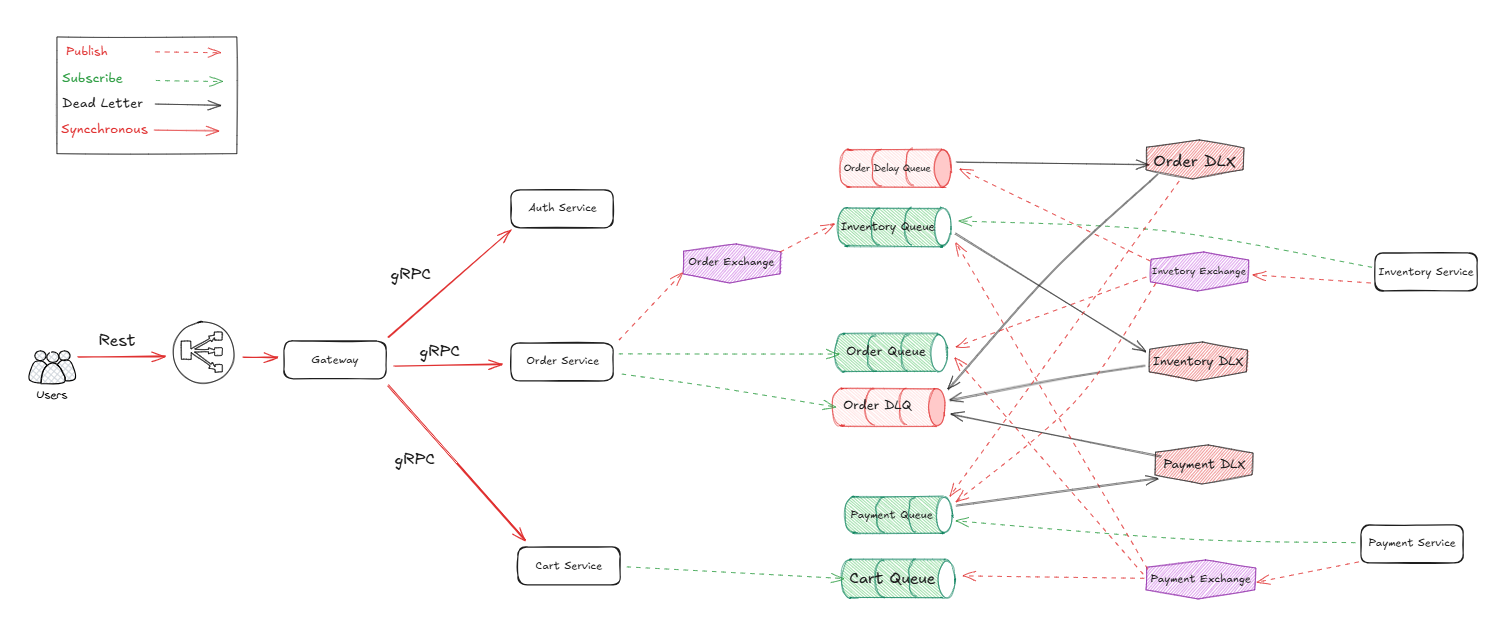
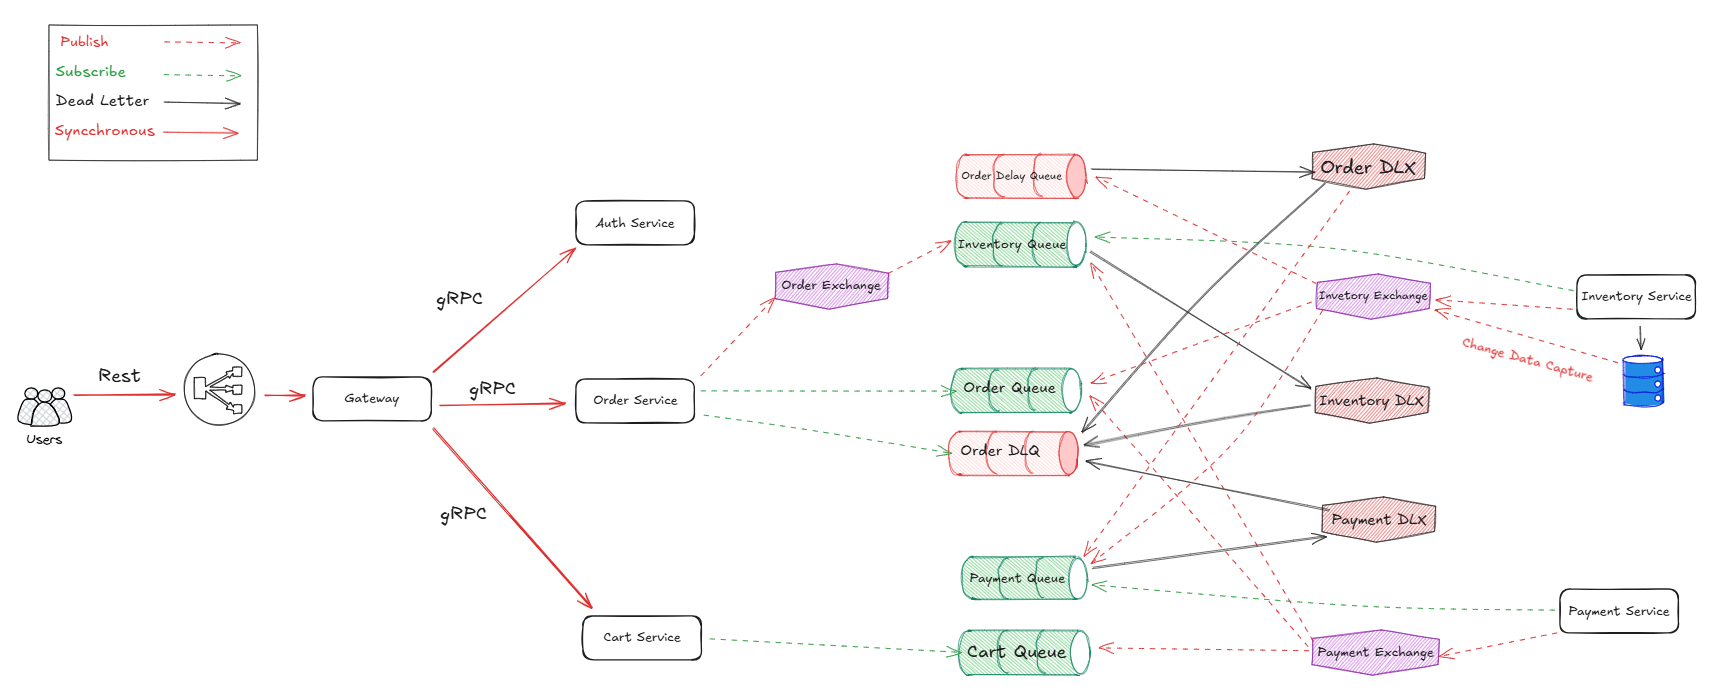
feat: Add change data capture

diff --git a/services/order/v1/internal/app/app.go b/services/order/v1/internal/app/app.go
@@ -10,6 +10,7 @@ import (
 	"package/rabbitmq"
 	"time"
 
+	"github.com/goforj/godump"
 	"github.com/rabbitmq/amqp091-go"
 	"go.opentelemetry.io/otel"
 )
@@ -44,28 +45,10 @@ func (c *appServer) Worker(ctx context.Context, messages <-chan amqp091.Delivery
 			"inventory.failed":   {},
 		}
 
-		log.Println("delivery.Type: ", delivery.RoutingKey)
-		switch delivery.RoutingKey {
-		// case "payment.successed":
-		// 	c.updateStatus(ctx, delivery, delivery.RoutingKey)
-
-		case "inventory.created":
-			c.inventoryCreated(ctx, delivery)
-
-		case "inventory.updated":
-			c.inventoryUpdated(ctx, delivery)
-
-		// case "inventory.reserved.buynow":
-		// 	c.updateStatus(ctx, delivery, delivery.RoutingKey)
-
-		// case "inventory.reserved.cart":
-		// 	c.updateStatus(ctx, delivery, delivery.RoutingKey)
-
-		// case "payment.failed":
-		// 	c.updateStatus(ctx, delivery, delivery.RoutingKey)
-
-		// case "inventory.failed":
-		// 	c.updateStatus(ctx, delivery, delivery.RoutingKey)
+		log.Println("message.Type: ", message.RoutingKey)
+		switch message.RoutingKey {
+		case "inventory.event":
+			c.inventoryEvent(ctx, message)
 
 		case "order.timeout":
 			c.checkAndUpdateStatus(ctx, delivery, delivery.RoutingKey)
@@ -77,29 +60,6 @@ func (c *appServer) Worker(ctx context.Context, messages <-chan amqp091.Delivery
 			}
 		}
 	}
-}
-
-func (c *appServer) inventoryCreated(ctx context.Context, delivery amqp091.Delivery) {
-	var payload constant.Product
-	// Extract trace context
-	ctx_ := otel.GetTextMapPropagator().Extract(
-		ctx,
-		rabbitmq.AMQPHeaderCarrier(delivery.Headers),
-	)
-
-	err := json.Unmarshal(delivery.Body, &payload)
-	if err != nil {
-		slog.Error("failed to Unmarshal", err)
-	}
-	// tracer := otel.Tracer("order-service")
-	// ctx2, span := tracer.Start(ctx_, "Create_Product")
-	if err = c.orderService.CreateProduct(ctx_, &payload); err != nil {
-		slog.Error("failed to created order_products", err)
-		c.rejectDelivery(delivery)
-		return
-	}
-	// span.End()
-	c.ackDelivery(delivery)
 }
 
 func (c *appServer) updateStatus(ctx context.Context, delivery amqp091.Delivery, routingKey string) {
@@ -169,25 +129,45 @@ func (c *appServer) updateStatus(ctx context.Context, delivery amqp091.Delivery,
 	c.ackDelivery(delivery)
 }
 
-func (c *appServer) inventoryUpdated(ctx context.Context, delivery amqp091.Delivery) {
-	var payload constant.Product
-	ctx_ := otel.GetTextMapPropagator().Extract(
-		ctx,
-		rabbitmq.AMQPHeaderCarrier(delivery.Headers),
-	)
+// func (c *appServer) inventoryUpdated(ctx context.Context, delivery amqp091.Delivery) {
+// 	var payload constant.Product
+// 	ctx_ := otel.GetTextMapPropagator().Extract(
+// 		ctx,
+// 		rabbitmq.AMQPHeaderCarrier(delivery.Headers),
+// 	)
 
-	err := json.Unmarshal(delivery.Body, &payload)
+// 	err := json.Unmarshal(delivery.Body, &payload)
+// 	if err != nil {
+// 		slog.Error("failed to Unmarshal", err)
+// 	}
+
+// 	if err := c.orderService.UpdateProduct(ctx_, &payload); err != nil {
+// 		slog.Error("failed to update order_products", err)
+// 		c.rejectDelivery(delivery)
+// 		return
+// 	}
+
+// 	c.ackDelivery(delivery)
+// }
+
+func (c *appServer) inventoryEvent(ctx context.Context, message amqp091.Delivery) {
+	var payload map[string]constant.OrderProduct
+	err := json.Unmarshal(message.Body, &payload)
 	if err != nil {
 		slog.Error("failed to Unmarshal", err)
-	}
-
-	if err := c.orderService.UpdateProduct(ctx_, &payload); err != nil {
-		slog.Error("failed to update order_products", err)
-		c.rejectDelivery(delivery)
+		c.rejectDelivery(message)
 		return
 	}
 
-	c.ackDelivery(delivery)
+	data := payload["payload"]
+	godump.Dump(data)
+	if err := c.orderService.ProductUpdate(ctx, &data); err != nil {
+		slog.Error("failed to update order_product", err)
+		c.rejectDelivery(message)
+		return
+	}
+
+	c.ackDelivery(message)
 }
 
 func (c *appServer) checkAndUpdateStatus(ctx context.Context, delivery amqp091.Delivery, routingKey string) {

diff --git a/services/order/v1/internal/service/orderService.go b/services/order/v1/internal/service/orderService.go
@@ -31,8 +31,7 @@ type orderService struct {
 }
 
 type OrderService interface {
-	CreateProduct(context.Context, *constant.Product) error
-	UpdateProduct(context.Context, *constant.Product) error
+	ProductUpdate(context.Context, *constant.OrderProduct) error
 	UpdateStatus(context.Context, int, map[string]interface{}) error
 	CheckAndUpdateStatus(context.Context, int) error
 
@@ -183,27 +182,33 @@ func (s *orderServer) ListOrder(ctx context.Context, in *order.ListOrderRequest)
 	return result, nil
 }
 
-func (o *orderService) CreateProduct(ctx context.Context, product *constant.Product) error {
-	// tracer := otel.Tracer("order-service")
-	createCtx, createSpan := o.tracer.Start(ctx, "CreatedProduct")
-	defer createSpan.End()
-	if err := o.orderRepo.CreateProduct(createCtx, product); err != nil {
-		log.Printf("%+v", errors.WithStack(err))
-		return err
-	}
-	return nil
-}
-
-func (o *orderService) UpdateProduct(ctx context.Context, product *constant.Product) error {
-	updateCtx, updateSpan := o.tracer.Start(ctx, "UpdateProduct")
-	defer updateSpan.End()
-
-	product.UpdatedAt = time.Now().UTC()
-	if err := o.orderRepo.UpdateProduct(updateCtx, product); err != nil {
-		log.Printf("%+v", errors.WithStack(err))
-		return err
+func (o *orderService) ProductUpdate(ctx context.Context, orderProduct *constant.OrderProduct) error {
+	product := &constant.Product{
+		StoreID:     &orderProduct.StoreID,
+		ProductID:   &orderProduct.ProductID,
+		ProductName: &orderProduct.ProductName,
+		Price:       &orderProduct.Price,
+		CreatedAt:   time.Now().UTC(),
+		UpdatedAt:   time.Now().UTC(),
 	}
 
+	switch orderProduct.Operation {
+	case "c":
+		if err := o.orderRepo.CreateProduct(ctx, product); err != nil {
+			log.Printf("%+v", errors.WithStack(err))
+			return err
+		}
+	case "u":
+		if err := o.orderRepo.UpdateProduct(ctx, product); err != nil {
+			log.Printf("%+v", errors.WithStack(err))
+			return err
+		}
+	case "d":
+		if err := o.orderRepo.DeleteProduct(ctx, *product.ProductID); err != nil {
+			log.Printf("%+v", errors.WithStack(err))
+			return err
+		}
+	}
 	return nil
 }
 

diff --git a/services/order/v1/internal/repository/orderRepository.go b/services/order/v1/internal/repository/orderRepository.go
@@ -75,11 +75,18 @@ func (repo *orderRepository) UpdateProduct(ctx context.Context, product *constan
 		updateData["price"] = product.Price
 	}
 
-	result := repo.gorm.Model(&constant.Product{}).WithContext(ctx).Where("product_id = ?", product.ProductID).Updates(updateData)
+	result := repo.gorm.Model(&constant.Product{}).WithContext(ctx).Omit("create_at").Where("product_id = ?", product.ProductID).Updates(updateData)
 	if result.Error != nil {
 		return result.Error
 	}
 
+	return nil
+}
+
+func (repo *orderRepository) DeleteProduct(ctx context.Context, productID int) error {
+	if result := repo.gorm.Where("product_id = ?", productID).Delete(&constant.Product{}); result.Error != nil {
+		return result.Error
+	}
 	return nil
 }
 

diff --git a/services/order/v1/internal/repository/index.go b/services/order/v1/internal/repository/index.go
@@ -22,6 +22,7 @@ type OrderRepository interface {
 
 	CreateProduct(context.Context, *constant.Product) error
 	UpdateProduct(context.Context, *constant.Product) error
+	DeleteProduct(context.Context, int) error
 	CalculateTotalPrice(context.Context, map[int]*constant.OrderItems) ([]*constant.OrderItems, error)
 	CheckOrderStatus(context.Context, int, ...string) (bool, error)
 }

diff --git a/services/order/v1/internal/constant/model.go b/services/order/v1/internal/constant/model.go
@@ -53,6 +53,14 @@ type ListOrderRequest struct {
 	Status *string
 }
 
+type OrderProduct struct {
+	ProductName string  `json:"name"`
+	Operation   string  `json:"__op"`
+	ProductID   int     `json:"id"`
+	Price       float32 `json:"price"`
+	StoreID     int     `json:"store_id"`
+}
+
 func (Product) TableName() string {
 	return "order_products"
 }

diff --git a/services/inventories/v1/internal/repository/inventoryRepository.go b/services/inventories/v1/internal/repository/inventoryRepository.go
@@ -38,7 +38,7 @@ func (repo *inventoryRepository) UpdateInventory(ctx context.Context, in *consta
 		updateData["price"] = in.Price
 	}
 	if in.AvailableStock != nil {
-		updateData["stock"] = in.AvailableStock
+		updateData["available_stock"] = in.AvailableStock
 	}
 	if in.CategoryID != nil {
 		updateData["category_id"] = in.CategoryID
